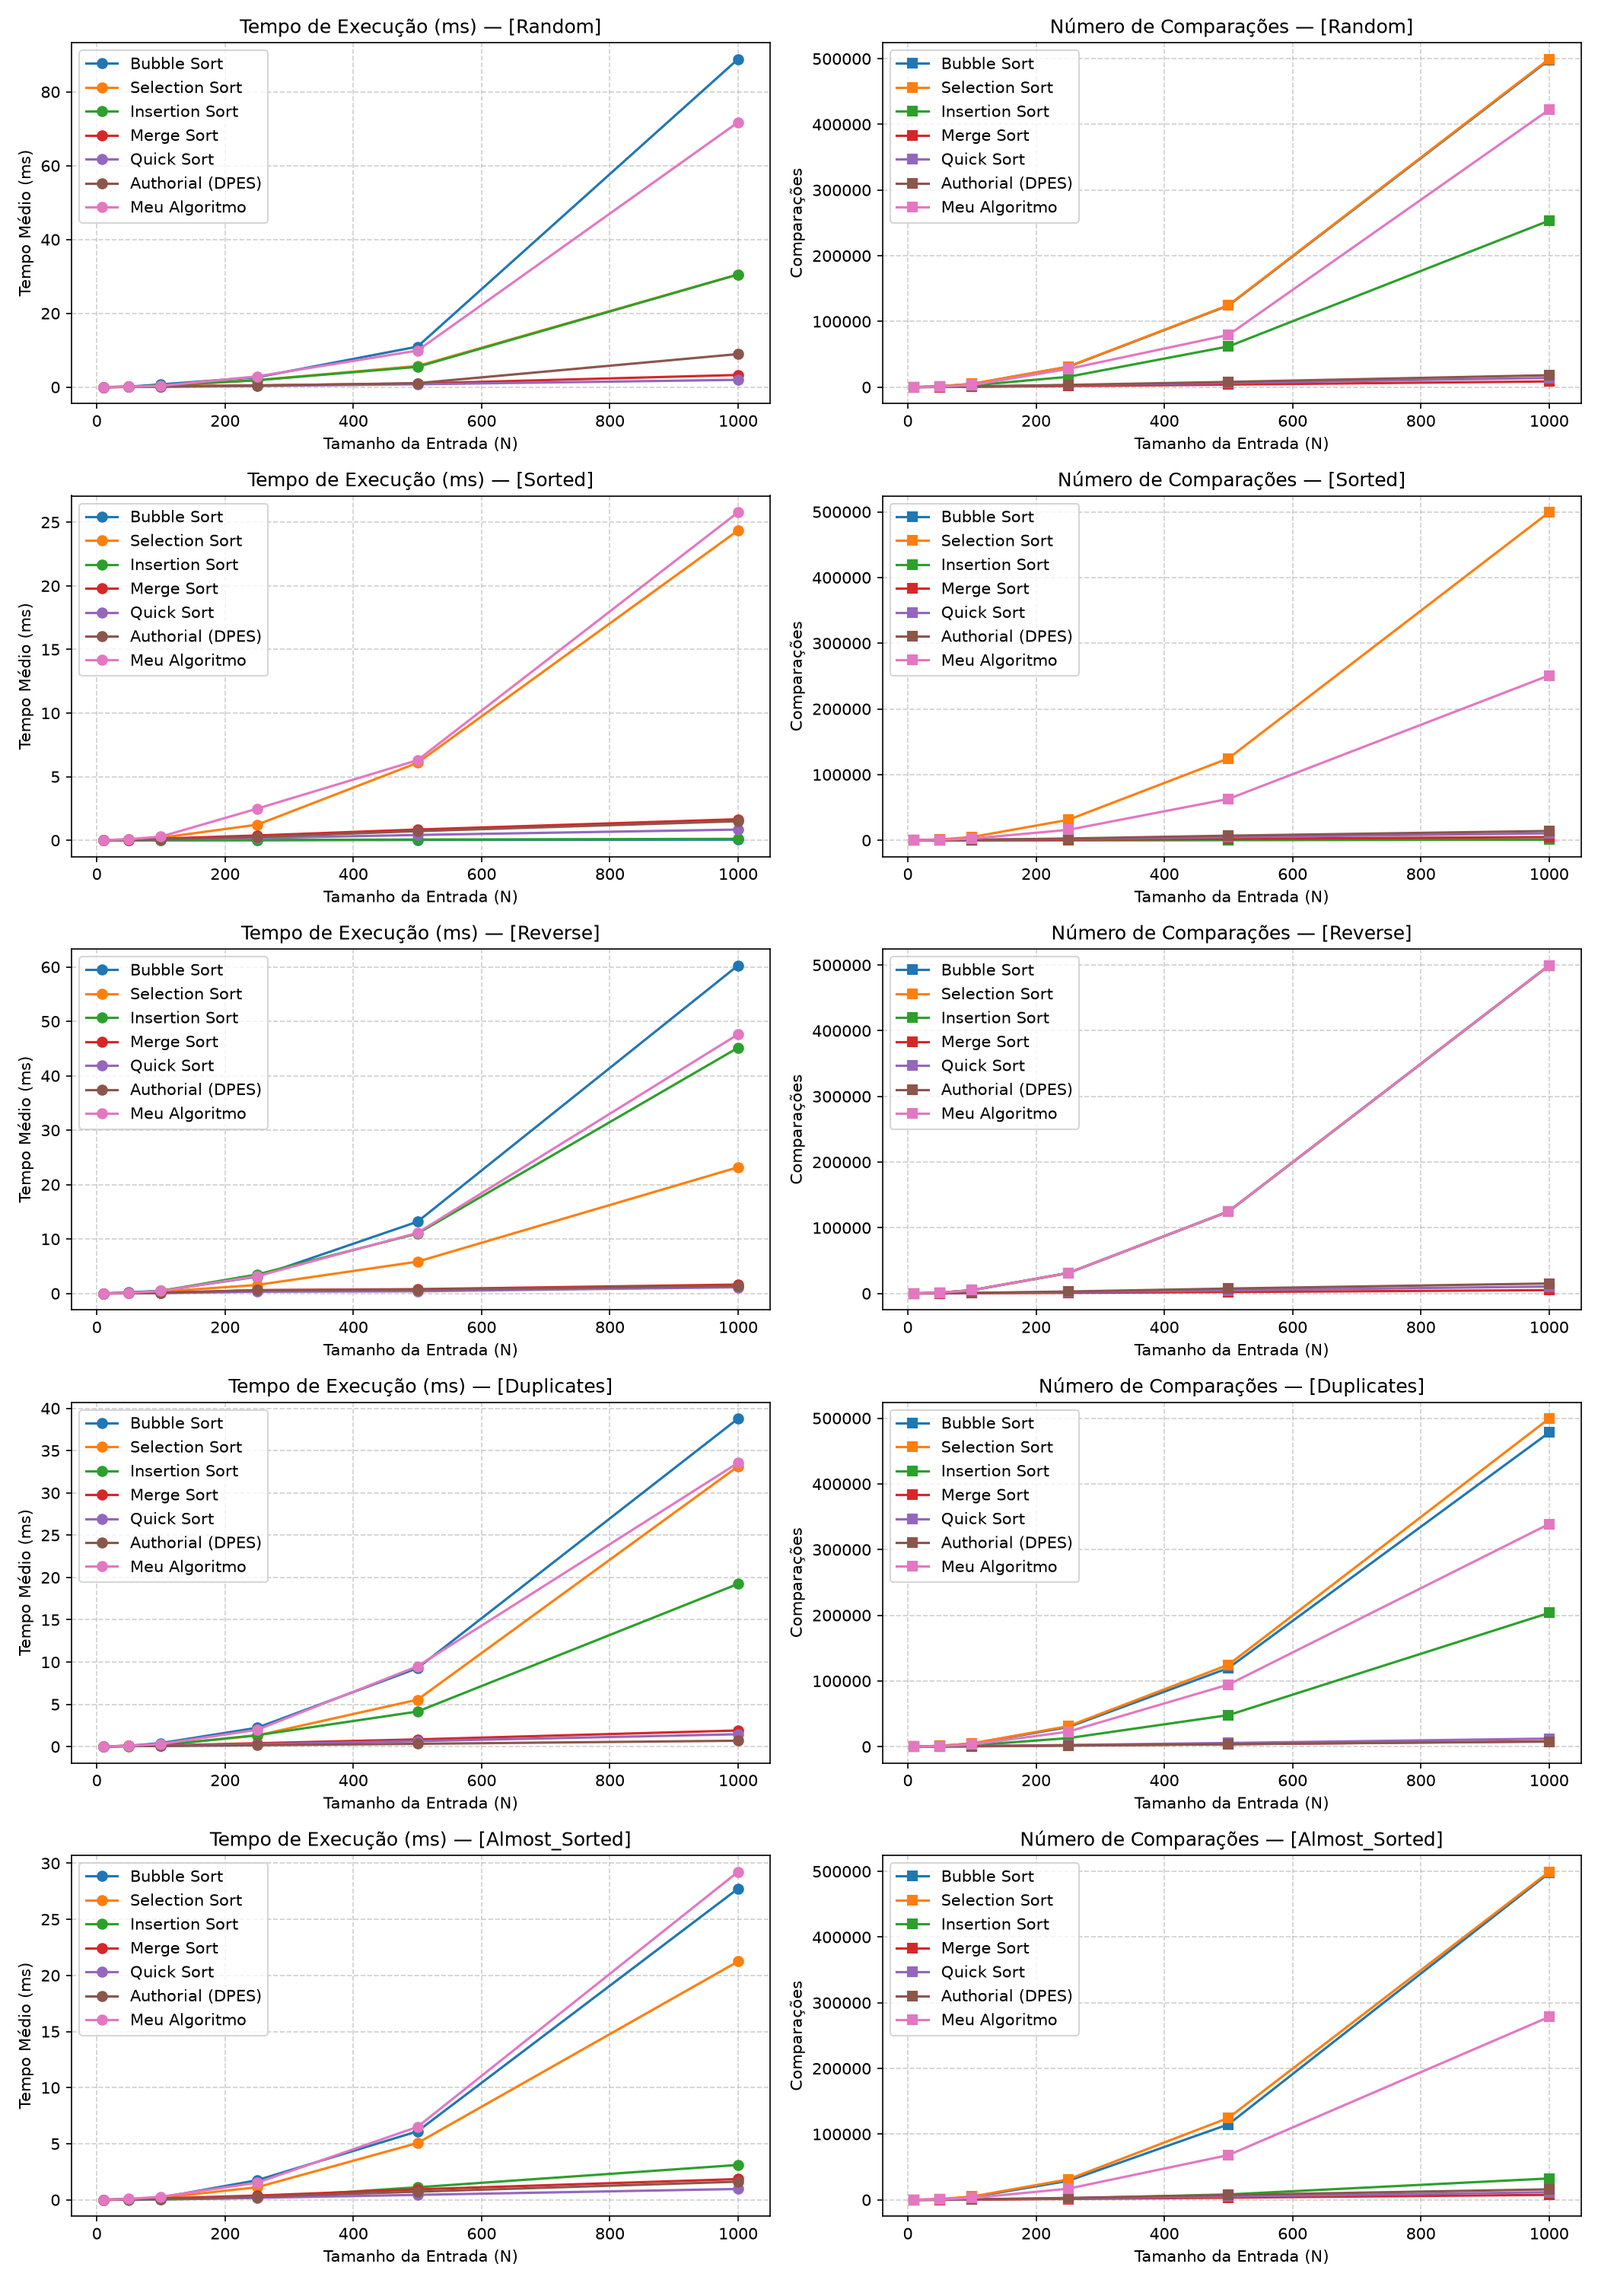
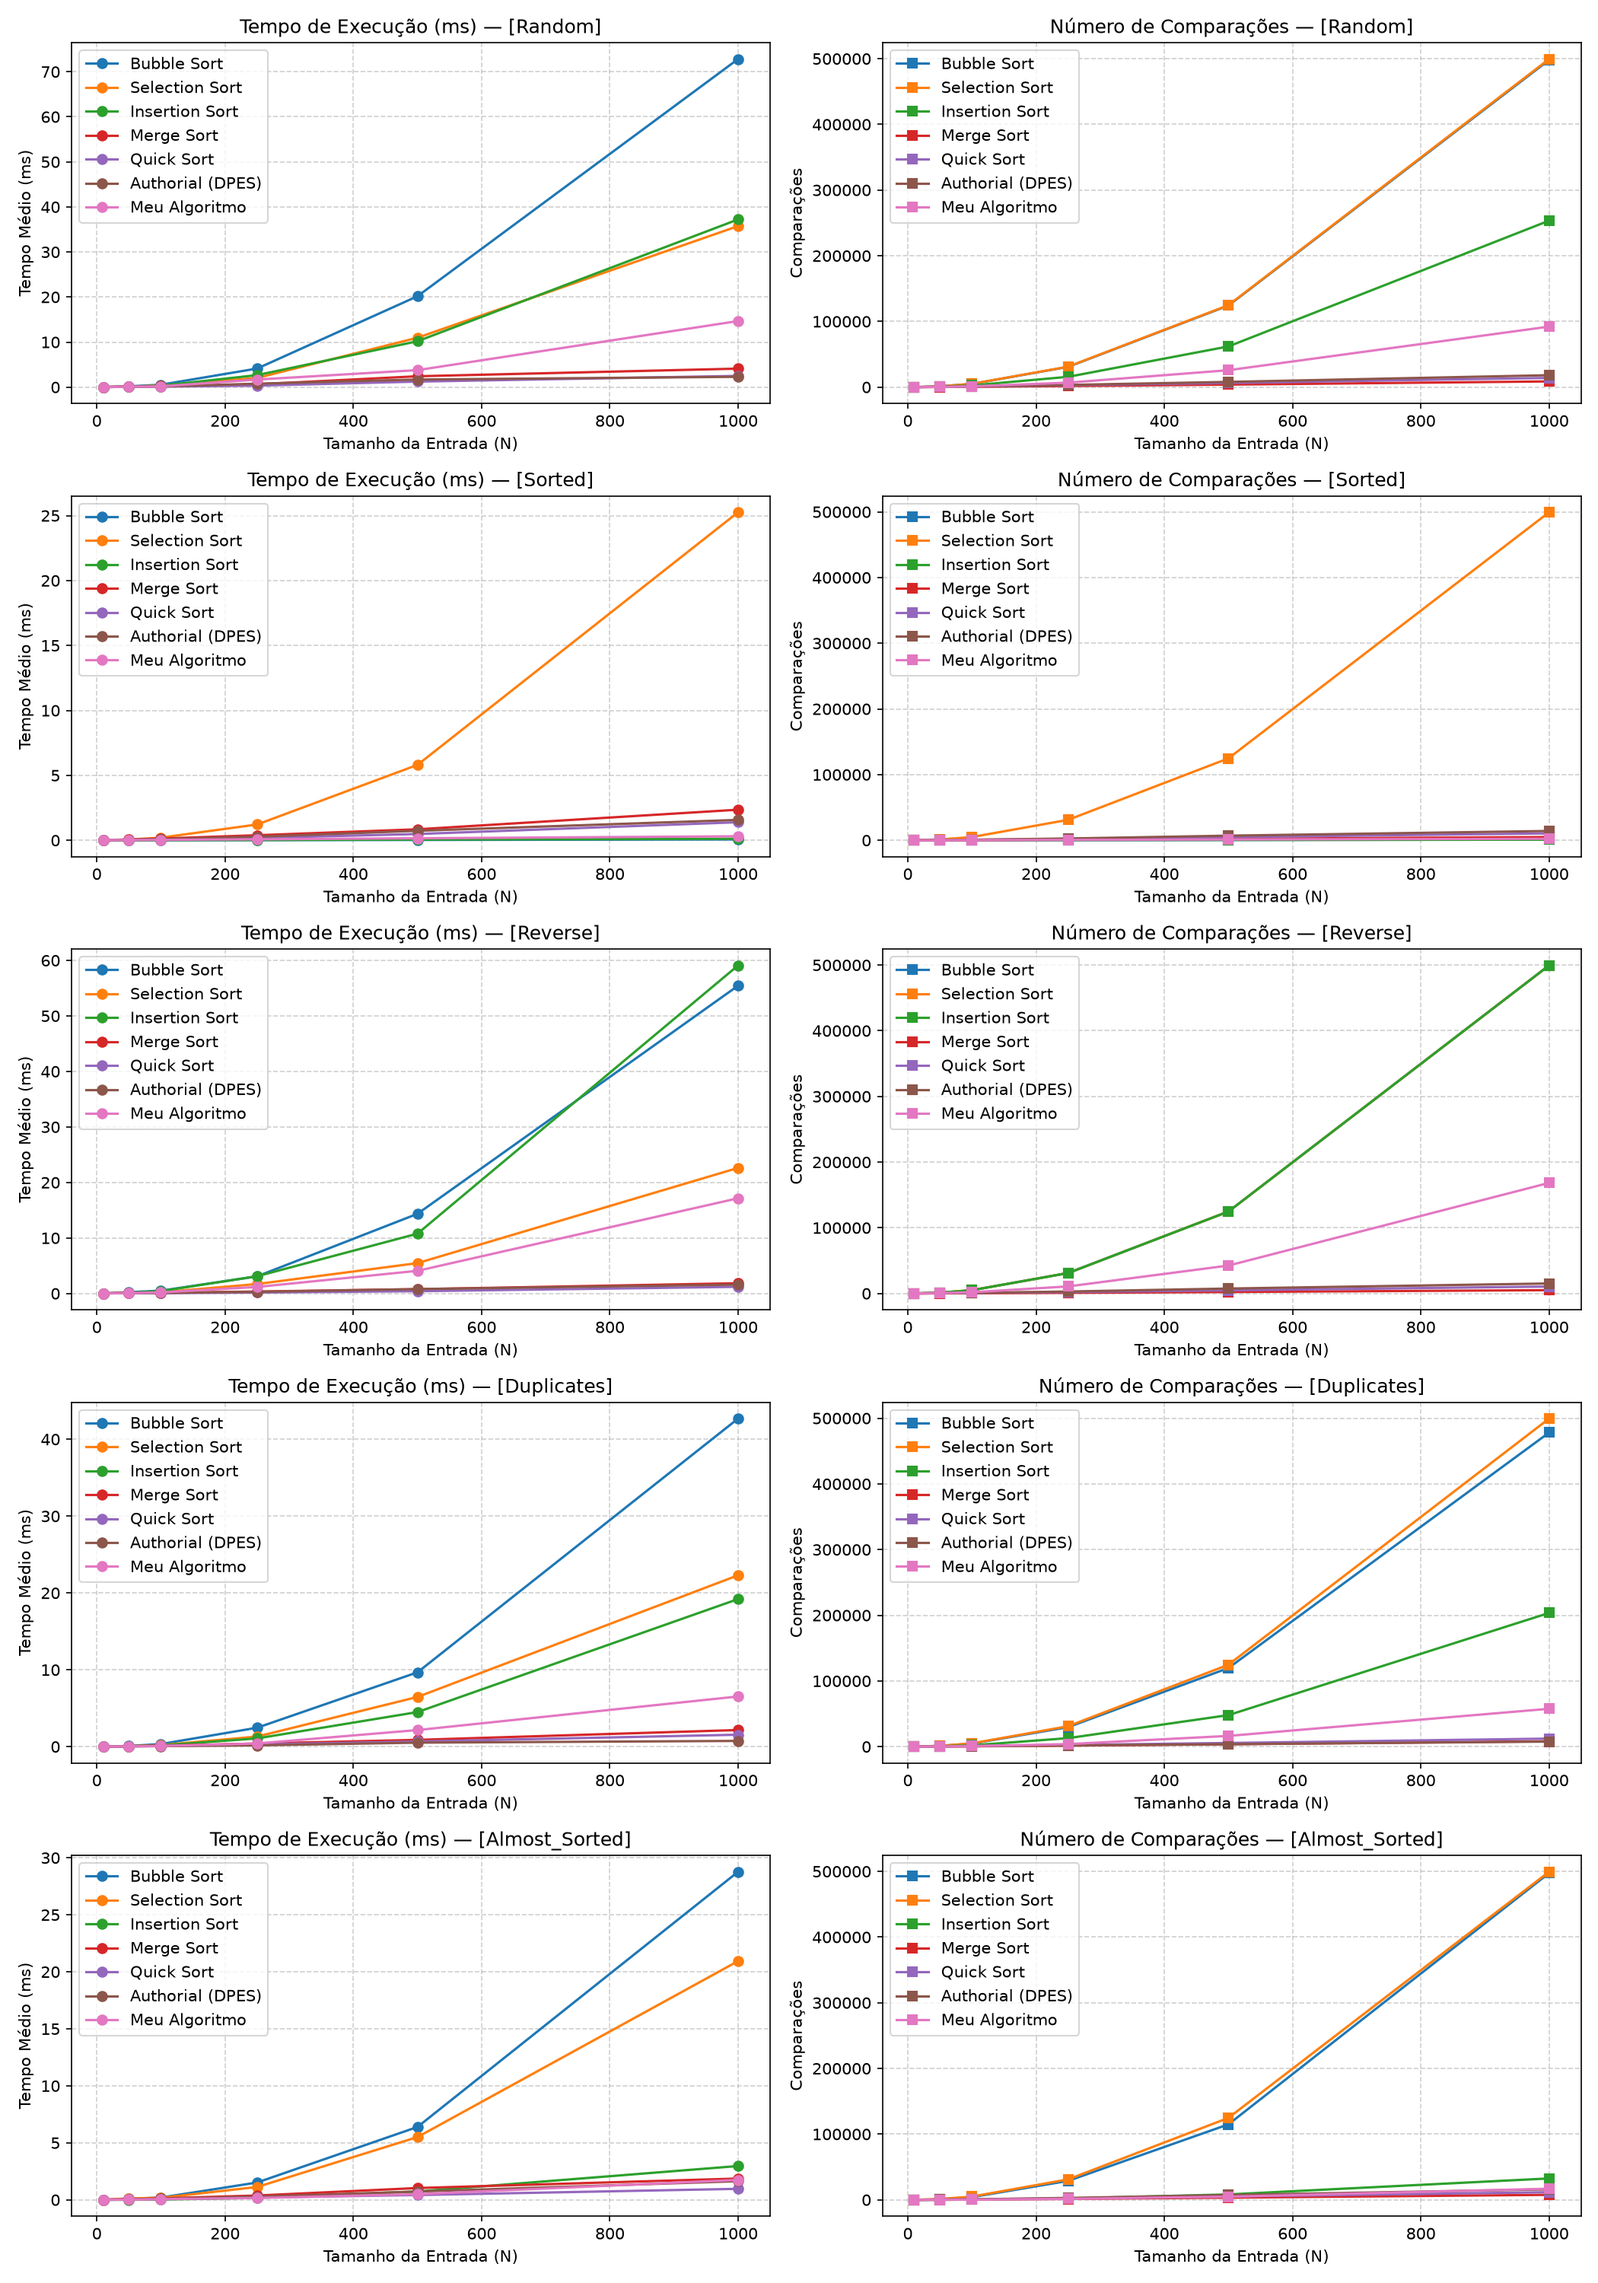
refactor: ajusta a lógica de pivôs e ordenação das mãos dos jogadores

diff --git a/src/student_template.py b/src/student_template.py
@@ -1,21 +1,9 @@
-"""
-TEMPLATE PARA O ALUNO — TRABALHO PRÁTICO 1 (TP1)
-Disciplina: Análise e Projetos de Algoritmos (APA)
-
-Instruções:
-1. Implemente seu método de ordenação autoral na função `my_authorial_sort`.
-2. O retorno deve ser obrigatoriamente a tupla: (lista_ordenada, total_comparacoes, total_movimentacoes).
-3. Execute este arquivo diretamente para rodar a suíte de testes de corretude e o benchmark rápido.
-"""
-
 from typing import Any, List, Tuple
 import unittest
 from src.classical import bubble_sort, insertion_sort
 
 def my_authorial_sort(arr: List[Any]) -> Tuple[List[Any], int, int]:
     """
-    IMPLEMENTE AQUI SEU ALGORITMO AUTORAL.
-
     Parâmetros:
         arr (List[Any]): Lista de entrada a ser ordenada.
 
@@ -33,7 +21,7 @@ def my_authorial_sort(arr: List[Any]) -> Tuple[List[Any], int, int]:
     comps = 0
     moves = 0
 
-    p1, p2, comps_pivo, moves_pivo = encontrar_pivos(a)
+    p1, p2, comps_pivo, moves_pivo = encontrar_pivos(a, n)
     comps += comps_pivo
     moves += moves_pivo
 
@@ -46,50 +34,61 @@ def my_authorial_sort(arr: List[Any]) -> Tuple[List[Any], int, int]:
         comps += 1
 
         if a[i] < p1:
-            jogador_esquerda, comps_esquerda, moves_esquerda = inserir_ordenado(jogador_esquerda, a[i])
-            comps += comps_esquerda
-            moves += moves_esquerda
+            jogador_esquerda, c, m = inserir_ordenado(jogador_esquerda, a[i])
+            comps += c
+            moves += m
 
         elif a[i] > p2:
             comps += 1
-            jogador_direita, comps_direita, moves_direita = inserir_ordenado(jogador_direita, a[i])
-            comps += comps_direita
-            moves += moves_direita
+            jogador_direita, c, m = inserir_ordenado(jogador_direita, a[i])
+            comps += c
+            moves += m
 
         else:
-            jogador_meio, comps_meio, moves_meio = inserir_ordenado(jogador_meio, a[i])
-            comps += comps_meio
-            moves += moves_meio
+            jogador_meio, c, m = inserir_ordenado(jogador_meio, a[i])
+            comps += c
+            moves += m
 
     a, moves_final = recolher_cartas_ordenadas(jogador_esquerda, jogador_meio, jogador_direita)
     moves += moves_final
 
     return a, comps, moves
 
-def encontrar_pivos(arr: List[Any]) -> Tuple[int, int, int, int]:
+def encontrar_pivos(arr: List[Any], tamanho_vetor: int) -> Tuple[int, int, int, int]:
     """
-    Função auxiliar para encontrar pivôs amostrais.
+    Função auxiliar para encontrar pivôs amostrais 
+    em espaços distribuídos proporcionalmente pelo vetor.
     """
 
-    primeiro = arr[0]
-    meio = arr[len(arr) // 2]
-    ultimo = arr[len(arr) - 1]
+    tamanho_amostra = max(9, int(tamanho_vetor ** 0.5) + 1)
+    quantidade_elementos_amostra = min(tamanho_amostra, tamanho_vetor)
+ 
+    if quantidade_elementos_amostra <= 2:
+        return arr[0], arr[-1], 0, 0
+ 
+    indices = []
 
-    response = [primeiro, meio, ultimo]
+    for i in range(quantidade_elementos_amostra):
+        indice = round(
+            i * (tamanho_vetor - 1) / (quantidade_elementos_amostra - 1)
+        )
+        indices.append(indice)
+    indices = sorted(set(indices))
 
-    comparacoes = 0
-    movimentacoes = 0
+    amostra = [arr[i] for i in indices]
+    
 
-    response, comps_bubble, moves_bubble = bubble_sort(response)
-    comparacoes += comps_bubble
-    movimentacoes += moves_bubble
+    amostra_ordenada, comparacoes, movimentacoes = insertion_sort(amostra)
+    amostra_ordenada_tamanho = len(amostra_ordenada)
+    p1 = amostra_ordenada[amostra_ordenada_tamanho // 3]
+    p2 = amostra_ordenada[(2 * amostra_ordenada_tamanho) // 3]
 
-    return response[0], response[1], comparacoes, movimentacoes
+    return p1, p2, comparacoes, movimentacoes
 
 def inserir_ordenado(mao: List[Any], elemento: Any) -> Tuple[List[Any], int, int]:
     """
     Função auxiliar para o jogador inserir a carta ordenamente na mão.
-    Utiliza o algoritmo Insertion Sort para ordenar as cartas.
+    Verifica se a carta é menor que a última carta da mão e, caso seja, realiza a troca até que a carta esteja na posição correta.
     """
     comparacoes = 0
     movimentacoes = 0
@@ -98,10 +97,15 @@ def inserir_ordenado(mao: List[Any], elemento: Any) -> Tuple[List[Any], int, int
     mao.append(elemento)
     movimentacoes += 1
 
-    # aplica o Insertion Sort para ordenar as cartas na mão
-    mao, comps, moves = insertion_sort(mao)
-    comparacoes += comps
-    movimentacoes += moves
+    j = len(mao) - 1
+    while j > 0:
+        comparacoes += 1
+        if mao[j - 1] > mao[j]:
+            mao[j - 1], mao[j] = mao[j], mao[j - 1]
+            movimentacoes += 1
+            j -= 1
+        else:
+            break
 
     return mao, comparacoes, movimentacoes
 
